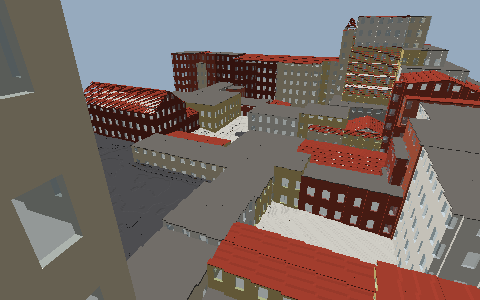
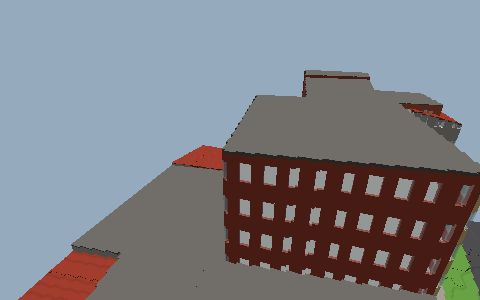
Chunk decode with Fill (23 -> ~1 ms), faces from buffers, viewer reads neighbour faces, --render-threads; finding: fire threads stall while the main program is in a long native call
Claude-Session: https://claude.ai/code/session_01Sz1bBYhg2rSfVgnCNfqZBp

diff --git a/docs/FIRE.md b/docs/FIRE.md
@@ -19,7 +19,7 @@ Das Projekt ist der Extremtest für fire. Hier steht, was dabei an fire auffäll
 | **Nativ falsch:** Im Werkzeug (`Raser.Tool`, Release) liefert `float h0 = z0 + Raser.Shape.CornerMeters(shape, 0)` statt 0,2 den Wert 4596373779694328320 (die Bits von 0,2 als Ganzzahl). Im generierten C gibt `f322_c` (der C-Körper von `CornerMeters`, Rückgabe `defined float`) korrekt `Float(...)` zurück, die Aufrufstelle liest aber `(Real)(FireInt)s1.i` - sie hält das Ergebnis für eine Ganzzahl. `shape` ist dort ein lokales `int` aus einer Methode mit `defined int`. In kleinen Nachbauten (gleiche Datei, oder Bibliothek + Programm) tritt es nicht auf; die VM rechnet richtig. | war `Corner(...) * 0.05` | behoben (8a0292a), wieder `CornerMeters`. Folge: native Builds vorher setzten auch die unterste Chunk-Ebene falsch (`HeightRaster.Min`) - Generator 2 erzeugt neu |
 | **Kein Fehler, mein Irrtum:** `(x) => self.Get("a")` fängt `self` ohne Wort ein, und das heißt: die Lambda bekommt eine **tiefe Kopie** (hier des ganzen Stores samt Dictionary und Items). Was sie zurückgibt, gehört zur Kopie und stirbt mit ihr - `store.items` selbst blieb heil. Im Viewer war die Kopie die des `WorldView` mit den Chunks; die Kopie eines Objekts, das eine Ressource über ihre Nummer hält, gibt beim Sterben die echte Ressource frei - daher „No resource with ID 1“ bzw. „The framebuffer has no usable size“. Richtig: das Objekt als Parameter der Lambda übergeben, eine globale Variable nehmen oder mit `on` binden. | Nachbarn als einzelne Parameter (`Raser.Mesher`) - bleibt so, ist ohnehin klarer | geklärt; fire warnt jetzt mit TC023 ausdrücklich vor der tiefen Kopie, die Doku zu Lambdas ist ergänzt |
 | **Besitz falsch (nur nativ):** `store.Get("a")` als Anweisung (Ergebnis verworfen) zerstört das Objekt, das `Get` aus dem Dictionary zurückgibt (VM: nicht). | Ergebnis nicht verwerfen | an fire gemeldet |
-| **Langsamer in Threads (nativ):** Derselbe Code (Chunks lesen und entpacken, Vernetzen) läuft in einem fire-Thread rund 1,75-mal langsamer als im Hauptprogramm, während das Hauptprogramm nur wartet: Hauptprogramm 23 ms lesen / 45 ms vernetzen je Chunk, `fire` 42 / 78 ms, `fire dedicated` 39 / 72 ms (Release, gcc, 4 Kerne). Nachbau `threads.fire` unten. | keiner (der Viewer lädt trotzdem in Workern: beim Start 6,9 → 4,2 s mit 3 Workern) | an fire gemeldet |
+| **Threads stehen, solange das Hauptprogramm in einem langen nativen Aufruf steckt (nativ):** Ein fire-Thread, der nur rechnet (Chunk dekodieren, Randschichten - Schleifen, Felder, Dictionary, keine Dateien), kommt nur voran, wenn das Hauptprogramm einen Haltepunkt erreicht. Rendert das Hauptprogramm in einer Schleife (`cam.Render()`, je rund 160 ms), bleibt der Thread ganz stehen; mit `Sleep(0ms)` nach jedem Bild schafft er je Bild ein Stück: `Chunk.Decode` 2,3 → 20 ms, `ChunkFace.Of` 1,0 → 20 ms. Gleich mit `scene.Threads = 1` (3 Kerne frei) und mit `--global-jobs sleep`/`sync`. Dateizugriffe, Deflate und `new byte[]` allein sind nicht betroffen. Im Viewer kommen die Ergebnisse der Worker deshalb kaum an (bei 15 m/s fehlten in 1.150 von 1.160 Bildern Säulen), und die gemessenen Zeiten in den Workern sind 10- bis 20-mal zu hoch. Der frühere Eintrag „1,75-mal langsamer“ war derselbe Effekt mit einem Hauptprogramm, das gerade wartete. Nachbau `threads.fire` unten. | keiner (der Viewer lädt mit `--workers 0` im Hauptprogramm) | an fire gemeldet |
 
 Nachbau (`forge run own.fire` und nativ) - der erste Teil ist das dokumentierte Einfangen als tiefe Kopie (siehe oben), der zweite (das verworfene `store.Get("a")`, nur nativ) ist gemeldet:
 
@@ -62,6 +62,50 @@ print("end")
 Mit einer globalen Variable statt `self` (oder `store` als Parameter der Lambda): `a`, `after holder`, `a`, `end`, `destroy a`.
 | `new Object(Model.FromArrays(...))` setzt die Mitte des Netzes auf die Position (Anker 0,5): die Koordinaten des Netzes gelten nur relativ. Für Welt-Koordinaten muss man das Minimum selbst rechnen und `SetAnchor(0, 0, 0)` + `SetPosition(min)` setzen. | war Minimum + `SetAnchor` | behoben (68e9a69): `obj.KeepMeshCoordinates = true` im Viewer, Bild pixelgleich |
 
+
+Nachbau: ein Thread rechnet, das Hauptprogramm rendert (`threads.fire`; ein Projekt, das `Raser.Core` und `Raser.World` referenziert, nativ gebaut;
+die Datei ist ein Chunk der Testregion). Ohne `Sleep(0ms)` in der Schleife kommt der Thread nie zum Ende:
+
+```fire
+#import "time"
+#import "windows"
+#import "scene3d"
+#import "filesystem"
+#import "compression"
+#import "raser.core"
+#import "raser.world"
+class L {
+    static string Run() {
+        var raw = Compression.Deflate.Decompress(IO.File.ReadAllBytes("world/chunks/1469_22284/29386_445690_7.rrc"))
+        int t1 = DateTime.Now.Ticks
+        for (int i = 0; i < 5; i++) { var c = Raser.Chunk.Decode(raw) }
+        int t2 = DateTime.Now.Ticks
+        var chunk = Raser.Chunk.Decode(raw)
+        int t3 = DateTime.Now.Ticks
+        for (int i = 0; i < 5; i++) { var f = Raser.ChunkFace.Of(chunk, i) }
+        int t4 = DateTime.Now.Ticks
+        return "Decode " + (t2 - t1) / 50000.0 + " ms, Face.Of " + (t4 - t3) / 50000.0 + " ms"
+    }
+}
+var fb = new Framebuffer(960, 600)
+var scene = new Scene()
+scene.Threads = 1
+for (int i = 0; i < 300; i++) { scene.Add(new Object(Template.Sphere, (i % 20) * 1m, 0m, (i / 20) * -1m, 0.8m, 0.8m, 0.8m, 48)) }
+scene.Add(Light.Directional(-0.5, -1.0, -0.4))
+var cam = new Camera(fb)
+cam.SetPosition(10m, 8m, 10m)
+cam.LookAt(10m, 0m, -7m)
+scene.Add(cam)
+var results = new Channel<string>()
+fire with results { results.Send(L.Run()) }
+print("Hauptprogramm wartet:  " + results.Receive())    // Decode 2,4 ms, Face.Of 1,1 ms
+fire with results { results.Send(L.Run()) }
+while (results.Count == 0) {
+    cam.Render()
+    Sleep(0ms)                                          // ohne diese Zeile: der Thread steht
+}
+print("Hauptprogramm rendert: " + results.Receive())    // Decode 28,6 ms, Face.Of 28,1 ms
+```
 
 Nachbau zur Geschwindigkeit in Threads (ein Projekt, das `Raser.Core`, `Raser.World` und `Raser.Mesh` referenziert; `forge build ... --engine native -m RELEASE`):
 

diff --git a/docs/PIPELINE.md b/docs/PIPELINE.md
@@ -144,10 +144,12 @@ Ohne Fenster misst `--fly` einen Flug in Echtzeit:
 Raser.Viewer --world world --at 376130,5704900 --radius 3 --distance 60 --pitch -25 --yaw 200 --size 480x300 --fly 300 --speed 15 --workers 3 --shot ende.png
 ```
 
-Gemessen: das Startbild (Radius 2, 125 Chunks) 6,9 s im Hauptprogramm, 4,2 s mit 3 Workern. Beim Flug mit 15 m/s kommen die Worker nicht nach:
-eine Säule kostet in einem Worker rund 500 ms Lesen (jeder Worker hat seinen eigenen Cache, die Nachbar-Chunks kommen meist von der Platte) und
-300-370 ms Vernetzen - fire-Threads laufen nativ rund 1,75-mal langsamer als das Hauptprogramm (docs/FIRE.md). Nächste Schritte: die Netze beim
-Voxelisieren mit erzeugen und speichern (dann lesen die Worker nur noch fertige Netze), und LOD für die Ferne.
+Für die Nachbarn liest ein Worker nur deren Randschichten (`.rrb`, 6 x 64 x 64 Zellen je Chunk; für die Testregion 18 MB neben 64 MB Chunks;
+`raser faces` schreibt sie zu schon voxelisierten Welten). Ein Chunk lädt in rund 1 ms (Lauflängen mit `Fill`), eine Randschicht in 0,1 ms.
+
+Gemessen im Hauptprogramm (`--workers 0`) je Säule: Lesen rund 13 ms, Vernetzen rund 110 ms. In Workern kommt das nicht an: fire-Threads stehen, solange
+das Hauptprogramm in `cam.Render()` steckt (docs/FIRE.md) - beim Flug mit 15 m/s kamen die Ergebnisse kaum an. Bis das in fire gelöst ist, ist
+`--workers 0` (Laden im Hauptprogramm, `--budget` Säulen je Bild) die ehrliche Wahl; das Vernetzen ist dann der nächste Engpass.
 
 ![Betrachter](images/viewer-rathaus.png)
 
